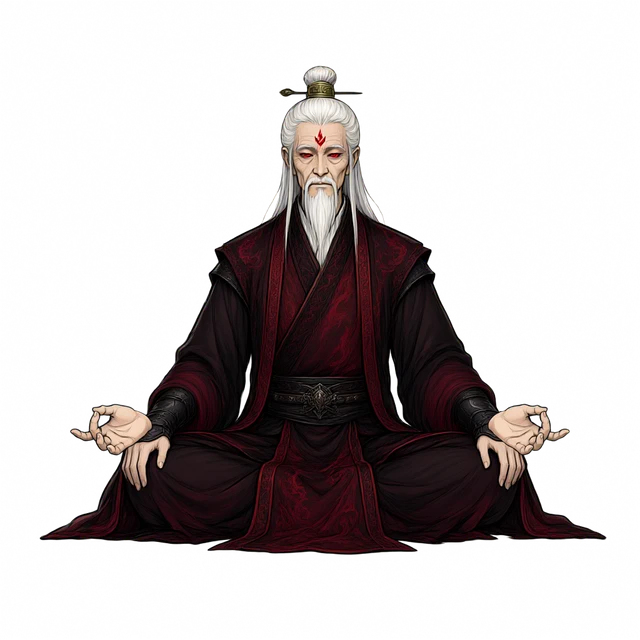
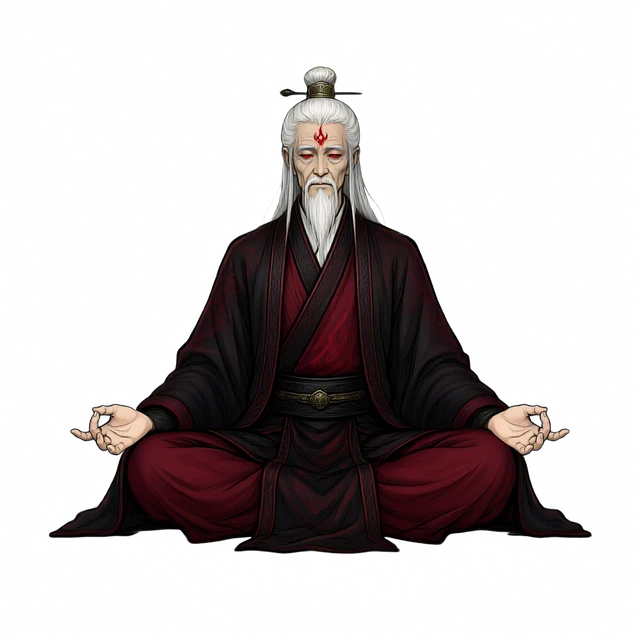
Vẽ lại 12 ảnh bộ lữ khách và ma tộc (bị thừa bàn tay)

Changed region(s): [[0.0625, 0.0938, 0.9375, 0.875]]

diff --git a/tools/nv-comfy.py b/tools/nv-comfy.py
@@ -55,7 +55,8 @@ GIU_T = ("Keep his face, head size, clothes, sleeves, hands, pose, line work, si
          "Fully transparent background, output a PNG image with transparency.")
 for _k in ('ht7', 'dk1', 'dk4'): CG.pop(_k, None)   # người dùng bỏ 3 bộ này
 EO = 'Keep his body as broad and solid as in image 1: normal adult male waist and torso width, not slim, not narrow-waisted. '
-THEM_AO = {'dk6': (EO, 57), 'dk8': (EO, 57), 'dk9': (EO, 57)}   # chỉnh riêng từng bộ: (câu thêm, seed)
+KHONG_TAY = 'Absolutely NO hands and no fingers anywhere: no hands resting on the knees or thighs, the sleeve openings are empty. '
+THEM_AO = {'khach': (KHONG_TAY, 77), 'ma': (KHONG_TAY, 77), 'dk6': (EO, 57), 'dk8': (EO, 57), 'dk9': (EO, 57)}   # chỉnh riêng từng bộ: (câu thêm, seed)
 KHONG_REF = set()   # bộ nào chỉ tả bằng chữ (không dùng ảnh mẫu)
 CG_TXT = {
  'lk1': 'an ivory-white cross-collar robe with green trim and a dark green sash with a jade pendant',
